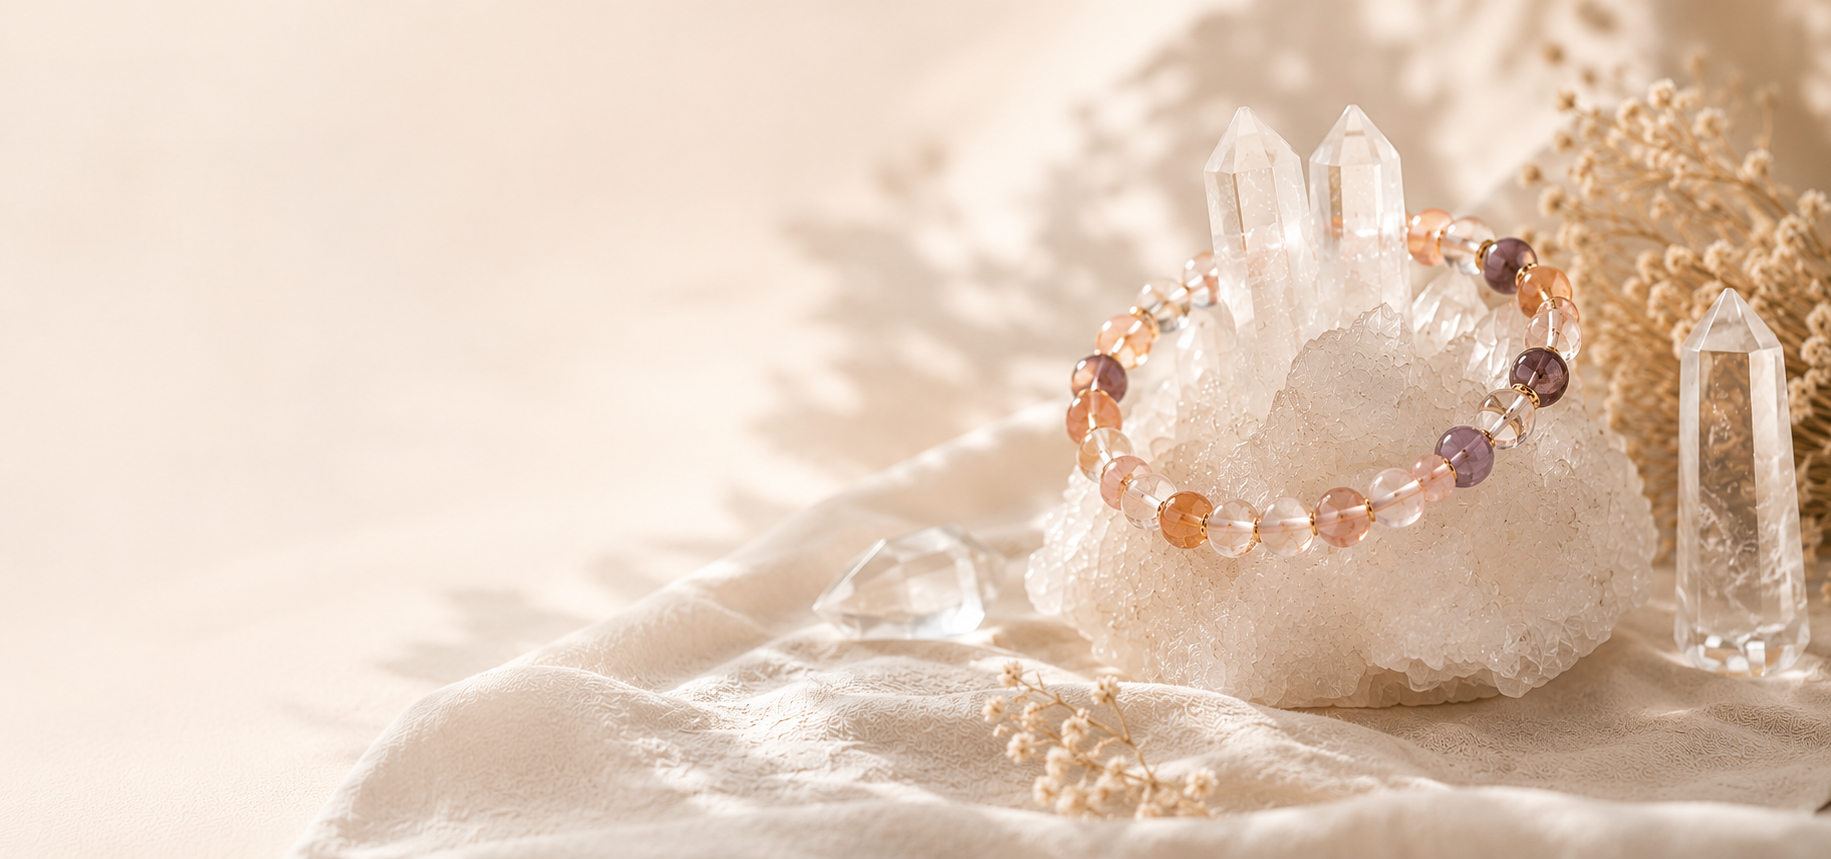
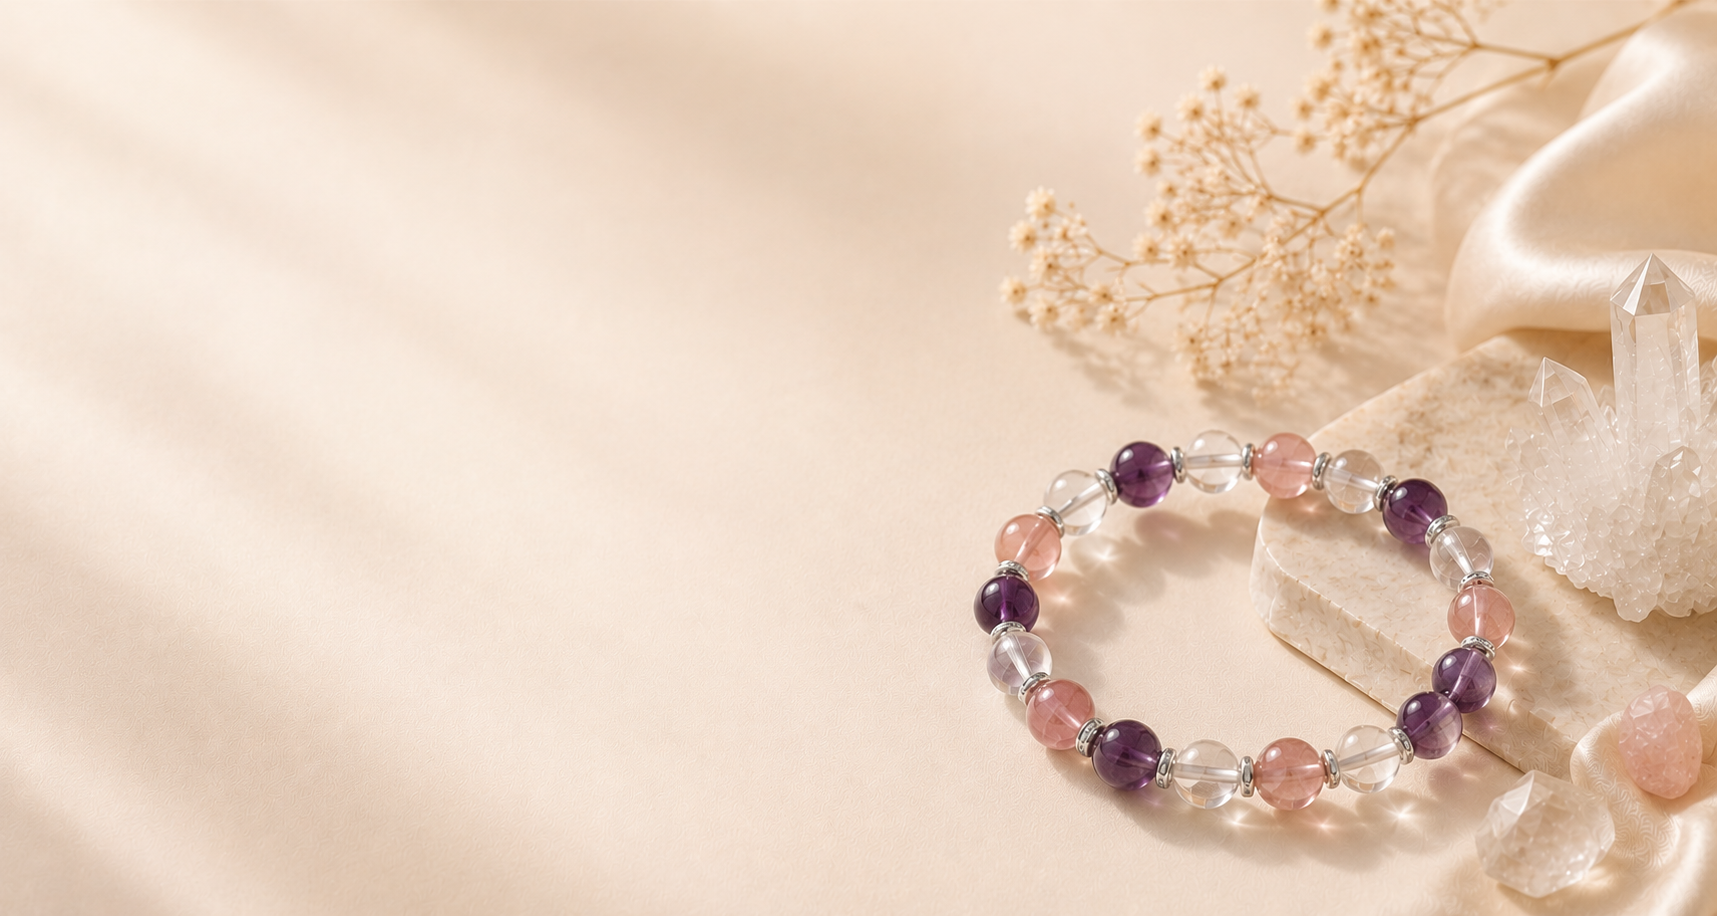
update footer

diff --git a/components/Footer.tsx b/components/Footer.tsx
@@ -13,7 +13,7 @@ const COL_HEAD: React.CSSProperties = {
   fontWeight: 700,
   letterSpacing: '0.28em',
   textTransform: 'uppercase' as const,
-  color: '#6B4F3A',
+  color: '#D4C4AE',
   margin: '0 0 10px',
 }
 
@@ -24,7 +24,7 @@ const UNDERBAR = (
 const LINK_STYLE: React.CSSProperties = {
   fontFamily: "'Montserrat', sans-serif",
   fontSize: 12.5,
-  color: '#8B6E52',
+  color: '#A89280',
   textDecoration: 'none',
   letterSpacing: '0.02em',
   lineHeight: 1,
@@ -125,22 +125,20 @@ export default function Footer() {
     <footer
       style={{
         width: '100%',
-        backgroundImage: "url('/footerbanner2.png')",
-        backgroundSize: 'cover',
-        backgroundPosition: 'center center',
-        backgroundRepeat: 'no-repeat',
+        background: '#2C201A',
         ...BODY,
       }}
     >
-      {/* Light overlay so text reads cleanly over the image */}
-      <div style={{ background: 'rgba(248, 242, 234, 0.78)' }}>
+      <div>
 
         {/* ── 5-COLUMN GRID ── */}
-        <div style={{ padding: '52px 48px 36px' }}>
+        <div style={{ padding: '52px 24px 36px' }}>
           <div style={{
+            maxWidth: 1060,
+            margin: '0 auto',
             display: 'grid',
             gridTemplateColumns: '1fr 1fr 1.2fr 1fr 1.5fr',
-            gap: '0 44px',
+            gap: '0 48px',
             alignItems: 'start',
           }}>
 
@@ -152,8 +150,8 @@ export default function Footer() {
                 {SHOP_LINKS.map(({ href, label }) => (
                   <li key={href} style={{ marginBottom: 14 }}>
                     <Link href={href} style={LINK_STYLE}
-                      onMouseEnter={e => ((e.target as HTMLElement).style.color = '#B08B57')}
-                      onMouseLeave={e => ((e.target as HTMLElement).style.color = '#8B6E52')}
+                      onMouseEnter={e => ((e.target as HTMLElement).style.color = '#C9A96E')}
+                      onMouseLeave={e => ((e.target as HTMLElement).style.color = '#A89280')}
                     >{label}</Link>
                   </li>
                 ))}
@@ -168,8 +166,8 @@ export default function Footer() {
                 {ABOUT_LINKS.map(({ href, label }) => (
                   <li key={href} style={{ marginBottom: 14 }}>
                     <Link href={href} style={LINK_STYLE}
-                      onMouseEnter={e => ((e.target as HTMLElement).style.color = '#B08B57')}
-                      onMouseLeave={e => ((e.target as HTMLElement).style.color = '#8B6E52')}
+                      onMouseEnter={e => ((e.target as HTMLElement).style.color = '#C9A96E')}
+                      onMouseLeave={e => ((e.target as HTMLElement).style.color = '#A89280')}
                     >{label}</Link>
                   </li>
                 ))}
@@ -184,8 +182,8 @@ export default function Footer() {
                 {CARE_LINKS.map(({ href, label }) => (
                   <li key={href} style={{ marginBottom: 14 }}>
                     <Link href={href} style={LINK_STYLE}
-                      onMouseEnter={e => ((e.target as HTMLElement).style.color = '#B08B57')}
-                      onMouseLeave={e => ((e.target as HTMLElement).style.color = '#8B6E52')}
+                      onMouseEnter={e => ((e.target as HTMLElement).style.color = '#C9A96E')}
+                      onMouseLeave={e => ((e.target as HTMLElement).style.color = '#A89280')}
                     >{label}</Link>
                   </li>
                 ))}
@@ -204,8 +202,8 @@ export default function Footer() {
                       target={href.startsWith('http') ? '_blank' : undefined}
                       rel={href.startsWith('http') ? 'noopener noreferrer' : undefined}
                       style={{ ...LINK_STYLE, display: 'inline-flex', alignItems: 'center', gap: 9 }}
-                      onMouseEnter={e => ((e.currentTarget as HTMLElement).style.color = '#B08B57')}
-                      onMouseLeave={e => ((e.currentTarget as HTMLElement).style.color = '#8B6E52')}
+                      onMouseEnter={e => ((e.currentTarget as HTMLElement).style.color = '#C9A96E')}
+                      onMouseLeave={e => ((e.currentTarget as HTMLElement).style.color = '#A89280')}
                     >
                       <span style={{ opacity: 0.75, display: 'flex' }}>{icon}</span>
                       {label}
@@ -225,7 +223,7 @@ export default function Footer() {
                 </p>
               ) : (
                 <>
-                  <p style={{ fontSize: 12.5, color: '#8B6E52', lineHeight: 1.75, marginBottom: 18 }}>
+                  <p style={{ fontSize: 12.5, color: '#A89280', lineHeight: 1.75, marginBottom: 18 }}>
                     Stay inspired. Be the first to know about new collections and offers.
                   </p>
                   <form onSubmit={handleJoin} style={{ position: 'relative' }}>
@@ -239,10 +237,10 @@ export default function Footer() {
                         width: '100%',
                         fontSize: 12,
                         padding: '11px 44px 11px 14px',
-                        border: '1px solid #C4A882',
+                        border: '1px solid rgba(196,168,130,0.35)',
                         borderRadius: 6,
-                        background: 'rgba(255,255,255,0.55)',
-                        color: '#4A3A32',
+                        background: 'rgba(255,255,255,0.07)',
+                        color: '#E0D0BC',
                         outline: 'none',
                         fontFamily: "'Montserrat', sans-serif",
                         boxSizing: 'border-box',
@@ -286,7 +284,7 @@ export default function Footer() {
 
 
         {/* ── ORNAMENT DIVIDER ── */}
-        <div style={{ padding: '0 48px', display: 'flex', alignItems: 'center', gap: 0 }}>
+        <div style={{ maxWidth: 1060, margin: '0 auto', padding: '0 24px', display: 'flex', alignItems: 'center', gap: 0 }}>
           {/* Left side: line — small diamond — line */}
           <svg width="16" height="16" viewBox="0 0 16 16" aria-hidden="true" style={{ flexShrink: 0 }}>
             <polygon points="8,2 14,8 8,14 2,8" fill="none" stroke="#C4A882" strokeWidth="1"/>
@@ -309,31 +307,31 @@ export default function Footer() {
 
         {/* ── COPYRIGHT ROW ── */}
         <div style={{
-          padding: '20px 48px 28px',
+          padding: '20px 24px 28px',
           display: 'flex',
           alignItems: 'center',
           justifyContent: 'center',
           gap: 24,
           flexWrap: 'wrap',
         }}>
-          <span style={{ fontSize: 11, color: '#8B7060', letterSpacing: '0.06em' }}>
+          <span style={{ fontSize: 11, color: '#7A6858', letterSpacing: '0.06em' }}>
             © 2026 SYANN.CO. All rights reserved.
           </span>
-          <span style={{ color: '#C4A882', fontSize: 11 }}>|</span>
+          <span style={{ color: 'rgba(196,168,130,0.4)', fontSize: 11 }}>|</span>
           <Link
             href="/privacy"
-            style={{ fontSize: 11, color: '#8B7060', textDecoration: 'none', letterSpacing: '0.04em', transition: 'color 0.2s' }}
-            onMouseEnter={e => ((e.target as HTMLElement).style.color = '#B08B57')}
-            onMouseLeave={e => ((e.target as HTMLElement).style.color = '#8B7060')}
+            style={{ fontSize: 11, color: '#7A6858', textDecoration: 'none', letterSpacing: '0.04em', transition: 'color 0.2s' }}
+            onMouseEnter={e => ((e.target as HTMLElement).style.color = '#C9A96E')}
+            onMouseLeave={e => ((e.target as HTMLElement).style.color = '#7A6858')}
           >
             Privacy Policy
           </Link>
-          <span style={{ color: '#C4A882', fontSize: 11 }}>|</span>
+          <span style={{ color: 'rgba(196,168,130,0.4)', fontSize: 11 }}>|</span>
           <Link
             href="/terms"
-            style={{ fontSize: 11, color: '#8B7060', textDecoration: 'none', letterSpacing: '0.04em', transition: 'color 0.2s' }}
-            onMouseEnter={e => ((e.target as HTMLElement).style.color = '#B08B57')}
-            onMouseLeave={e => ((e.target as HTMLElement).style.color = '#8B7060')}
+            style={{ fontSize: 11, color: '#7A6858', textDecoration: 'none', letterSpacing: '0.04em', transition: 'color 0.2s' }}
+            onMouseEnter={e => ((e.target as HTMLElement).style.color = '#C9A96E')}
+            onMouseLeave={e => ((e.target as HTMLElement).style.color = '#7A6858')}
           >
             Terms of Service
           </Link>